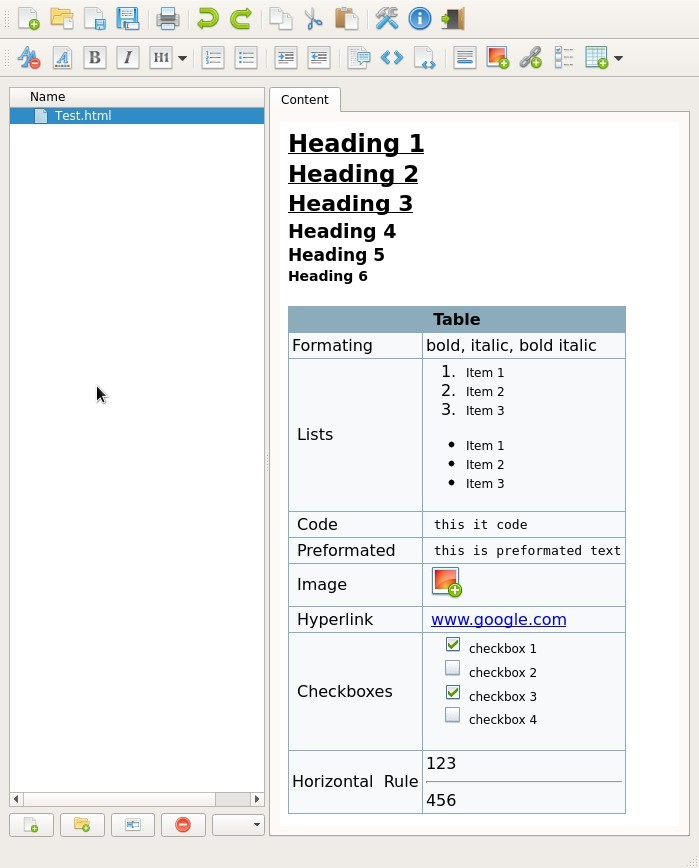
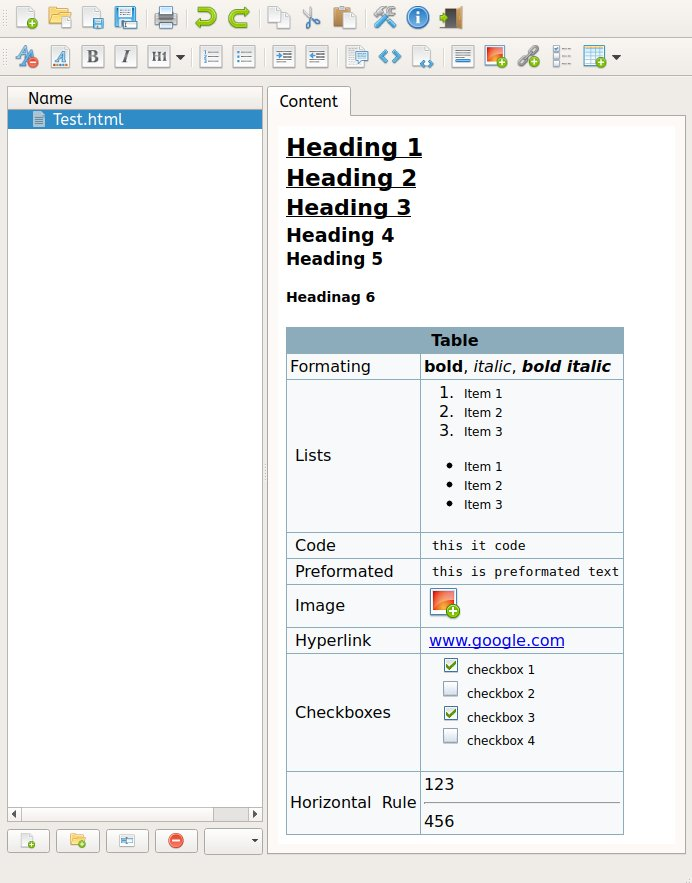
Bug fixes that crashed the application. Updated readme and screenshot.

diff --git a/notes/Test.html b/notes/Test.html
@@ -1,6 +1,6 @@
 <html><head><style type="text/css" class="yanta_main_style">body { font-family: sans-serif; font-size:12px; }  p{ -webkit-margin-before: 1em; -webkit-margin-after: 1em;  white-space: pre-wrap; -o-tab-size: 6; -moz-tab-size: 6; tab-size: 6; }  h1 {font-size: 200%; margin-top:3px; margin-bottom:3px; font-weight: bold; text-decoration:underline; } h2 {font-size: 190%; margin-top:3px; margin-bottom:3px; font-weight: bold; text-decoration:underline; } h3 {font-size: 180%; margin-top:3px; margin-bottom:3px; font-weight: bold; text-decoration:underline; } h4 {font-size: 160%; margin-top:3px; margin-bottom:3px; font-weight: bold; } h5 {font-size: 140%; margin-top:3px; margin-bottom:3px; font-weight: bold; } h6 {font-size: 120%; margin-top:3px; margin-bottom:3px; font-weight: bold; }  table {   background-color: #DEE7EC;   line-height: 1.2em;   border-spacing: 0px;   border-collapse: collapse;   margin-top:5px; } table thead td{   padding: 3px;   border: 1px solid #8CACBB;   background-color: #DEE7EC; }  table th {   padding: 3px;   border: 1px solid #8CACBB;   background-color: #8CACBB; }  table td {   padding: 3px;   border: 1px solid #8CACBB;   background-color: #F7F9FA; }  dl dt {     font-weight:bold; }  dl dd {     display: list-item;     list-style-type: square; }</style><style type="text/css" class="yanta_table_style">.selected_cell { background-color:#ccffcc; } .ui-selecting { background-color: #FECA40; cursor: pointer; } .ui-selected { background-color: #F39814; color: white; } .table_merge_selection{ border: 2px solid red; }</style></head><body contenteditable="true"><h1>Heading 1</h1><h2>Heading 2</h2><h3>Heading 3</h3><h4>Heading 4</h4><h5>Heading 5</h5><h6>Headinag 6</h6><div><br><table width="0%" class="" style="border: 0px none rgb(128, 128, 128); box-shadow: none;">
 <tbody><tr><th class="" colspan="2" rowspan="1">Table&nbsp; &nbsp;</th></tr>
-<tr><td class="">Formating&nbsp;</td><td class="">bold, italic, bold italic&nbsp;</td></tr>
+<tr><td class="">Formating&nbsp;</td><td class=""><b>bold</b>, <i>italic</i>, <b><i>bold italic</i></b>&nbsp;</td></tr>
 <tr><td class="">&nbsp;Lists</td><td class=""><ol><li><span style="line-height: 1.2em; font-size: 12px;">Item 1</span></li><li><span style="line-height: 1.2em; font-size: 12px;">Item 2</span></li><li><span style="line-height: 1.2em; font-size: 12px;">Item 3</span></li></ol><ul><li><span style="line-height: 1.2em; font-size: 12px;">Item 1</span></li><li><span style="line-height: 1.2em; font-size: 12px;">Item 2</span></li><li><span style="line-height: 1.2em; font-size: 12px;">Item 3</span></li></ul></td></tr>
 <tr><td class="">&nbsp;Code</td><td class=""><code>&nbsp;this it code</code></td></tr>
 <tr><td class="">&nbsp;Preformated</td><td class=""><pre>&nbsp;this is preformated text</pre></td></tr>

diff --git a/libs/python/NoteFunctions.py b/libs/python/NoteFunctions.py
@@ -469,13 +469,15 @@ class NoteFunctions():
             try:
                 root_dir = os.path.dirname(current_name)
                 #check for extension
+
                 if os.path.isfile(current_name):
                     fileName, fileExtension = os.path.splitext(new_name)
                     if fileExtension:
                         os.rename(current_name,os.path.join(root_dir,new_name))
                     else:
-                        #TODO:add function to load config
-                        os.rename(current_name,os.path.join(root_dir,new_name+".md"))
+                        fileName_old, fileExtension_old = os.path.splitext(current_name)
+
+                        os.rename(current_name,os.path.join(root_dir, new_name + fileExtension_old))
                 else:
                     os.rename(current_name,os.path.join(root_dir,new_name))
 

diff --git a/libs/python/FileTreeview.py b/libs/python/FileTreeview.py
@@ -3,6 +3,7 @@
 
 from PyQt5.QtCore import QDir
 from PyQt5 import QtWidgets
+from PyQt5.QtCore import Qt
 from PyQt5.QtWidgets import QTreeView
 from PyQt5.QtWidgets import QFileSystemModel
 
@@ -32,6 +33,8 @@ class FileTreeview(QTreeView):
         self.setAcceptDrops(True)
         self.setDragEnabled(True)
 
+        self.setSortingEnabled(True)
+        self.sortByColumn(0, Qt.AscendingOrder)
         self.setAllColumnsShowFocus(True)
         self.setModel(self.file_model)
 

diff --git a/plugins/viewers/html_editor/html_editor.py b/plugins/viewers/html_editor/html_editor.py
@@ -272,6 +272,8 @@ class html_editor(QWebView):
 
     def remove_format(self, param=None):
         self.page().triggerAction(QWebPage.RemoveFormat)
+        self.execute_js("document.execCommand('formatBlock', false, 'p');")
+
 
     def insert_link(self, param=None):
         link, ok = QInputDialog.getText(None, 'Insert Link','Enter a url for the link (ex: http://www.google.com).') #QLineEdit.Normal

diff --git a/README.md b/README.md
@@ -9,7 +9,16 @@ Yanta a simple note taking application built in python. It can save text notes i
 For installation you need to install (tested on linux and windows 8.1)
 
 * Python 3 - https://www.python.org/
+* Python modules - cssselect, lxml
 * PyQt <=5.5 - https://sourceforge.net/projects/pyqt/files/PyQt5/
+
+To install the python modules, install pip during the python installation and after the installation run on the command line:
+
+    pip install <MODULE_NAME>
+
+You have trouble compiling the lxml for windows you can run the download the [unoficial windows binary](http://www.lfd.uci.edu/~gohlke/pythonlibs/#lxml) and run:
+
+    pip install lzml-<VERSION>.whl
 
 ## Running
 
